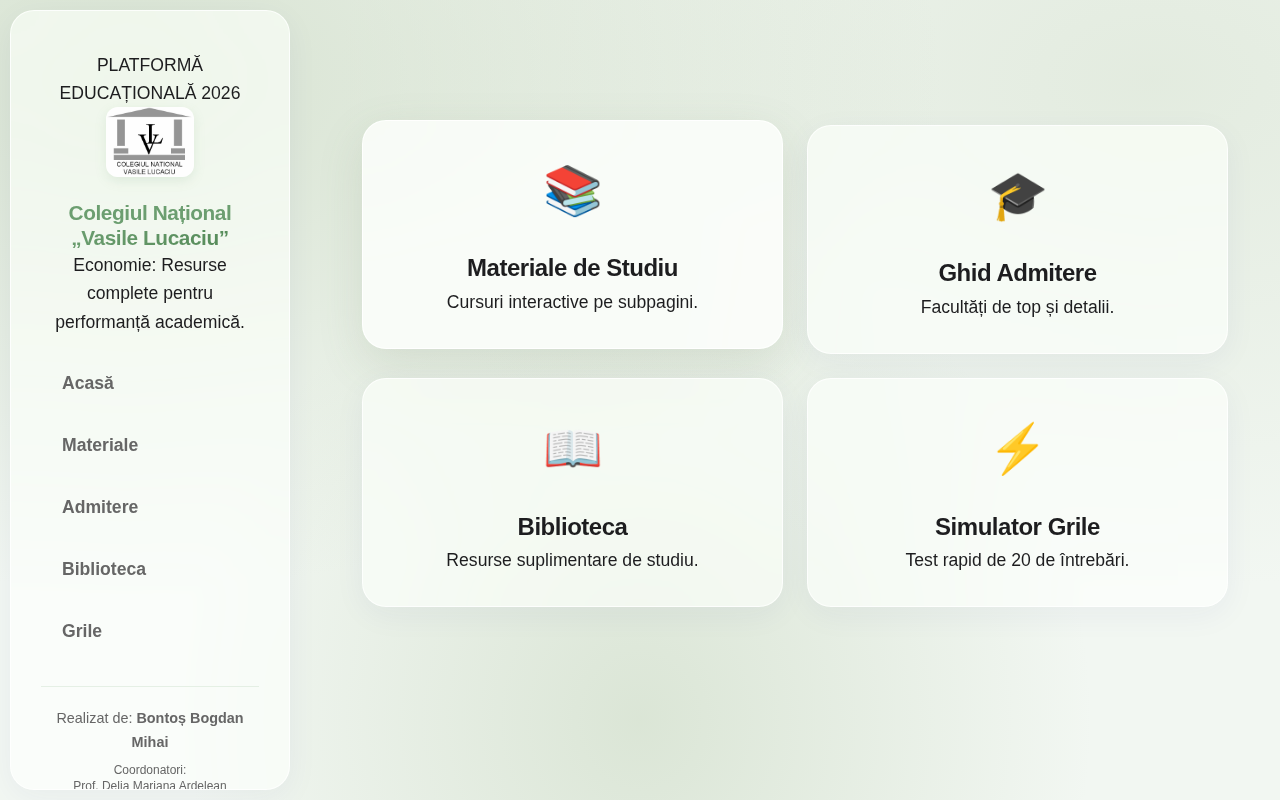
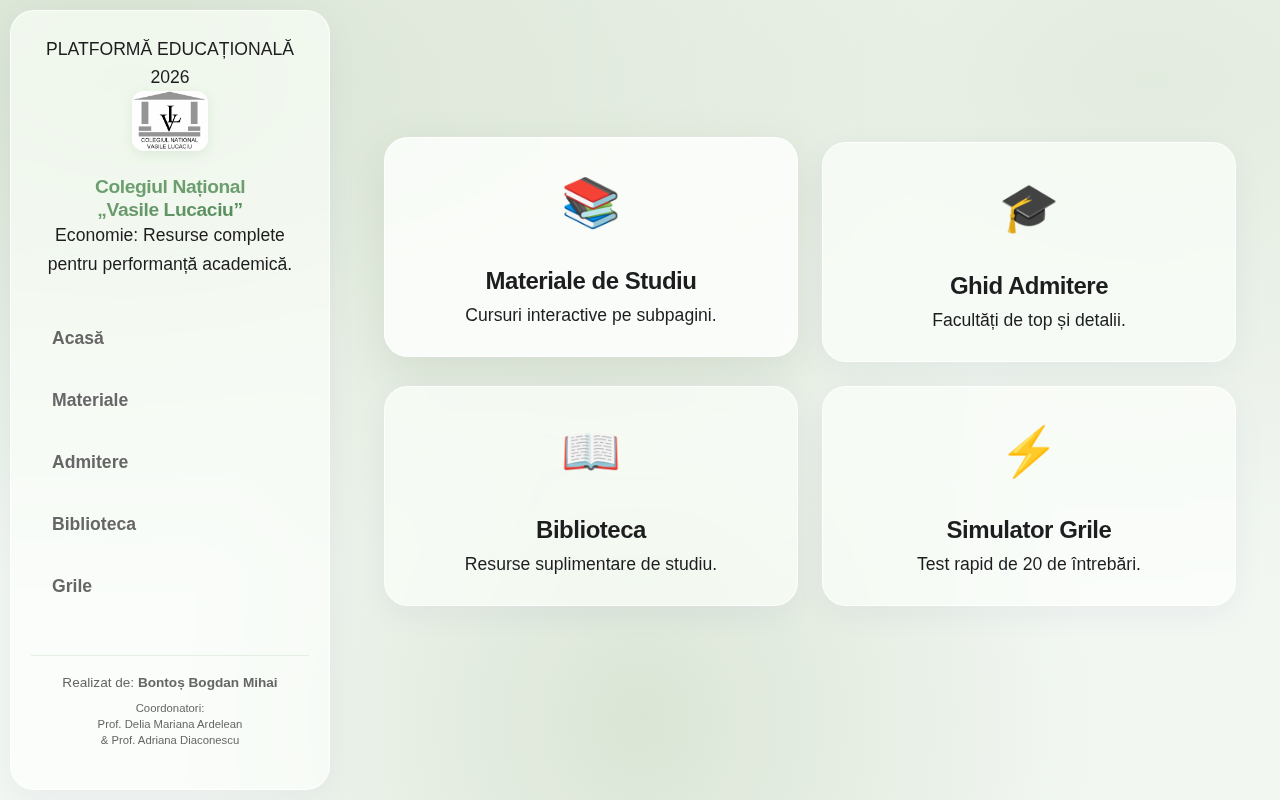
Refactor sidebar and viewer layout

diff --git a/style.css b/style.css
@@ -97,10 +97,10 @@ h3 { font-size: var(--fs-h3); }
     position: fixed;
     top: 0;
     left: 0;
-    width: 280px;
+    width: 320px;
     height: calc(100vh - 20px);
     margin: 10px;
-    padding: 2.5rem 1.875rem;
+    padding: 1.5rem 1.25rem;
     display: flex;
     flex-direction: column;
     justify-content: space-between;
@@ -110,10 +110,10 @@ h3 { font-size: var(--fs-h3); }
 }
 
 .sidebar-header { text-align: center; }
-.sidebar-header h1 { font-size: 1.3rem; line-height: 1.2; }
+.sidebar-header h1 { font-size: 1.2rem; line-height: 1.2; }
 
 .hero-logo {
-    height: 70px;
+    height: 60px;
     margin-bottom: 1rem;
     border-radius: 12px;
     box-shadow: var(--shadow-colored-sm);
@@ -153,17 +153,17 @@ h3 { font-size: var(--fs-h3); }
 
 .sidebar-footer {
     text-align: center;
-    font-size: var(--fs-small);
+    font-size: 0.85rem;
     color: var(--text-muted);
-    padding-top: 1.25rem;
+    padding-top: 1rem;
     border-top: 1px solid var(--border);
     margin-top: auto;
-    padding-bottom: 1.25rem;
+    padding-bottom: 1rem;
 }
 
 /* Main Content */
 .main-content {
-    margin-left: 310px; /* 280px width + 10px margin + 20px gap */
+    margin-left: 340px; /* 320px width + 10px margin + 10px gap */
     min-height: 100vh;
     position: relative;
     /* Reset glass style if applied via class, though .main-content usually doesn't need glass BG unless specified */
@@ -176,7 +176,7 @@ h3 { font-size: var(--fs-h3); }
 }
 
 /* Views */
-.view { display: none; padding: 1rem 2rem 3rem 2rem; min-height: 100vh; }
+.view { display: none; padding: 1.5rem; min-height: 100vh; }
 .view.active { display: block; animation: fadeIn 0.4s ease-out; }
 @keyframes fadeIn { from { opacity: 0; transform: translateY(10px); } to { opacity: 1; transform: translateY(0); } }
 
@@ -205,7 +205,7 @@ h3 { font-size: var(--fs-h3); }
 
 /* Cards - Interactive */
 .nav-card, .quiz-card, .chapter-card {
-    padding: 2rem;
+    padding: 1.5rem;
     cursor: pointer;
     margin-bottom: 0;
     position: relative;
@@ -339,7 +339,7 @@ h3 { font-size: var(--fs-h3); }
 
 /* Modals */
 .modal { position: fixed; inset: 0; background: rgba(0,0,0,0.4); backdrop-filter: blur(8px); z-index: 2000; display: flex; align-items: center; justify-content: center; padding: 1.25rem; animation: fadeIn 0.3s; }
-.modal-content { width: 100%; max-width: 800px; padding: 2.5rem; position: relative; max-height: 90vh; overflow-y: auto; }
+.modal-content { width: 100%; max-width: 800px; padding: 2rem; position: relative; max-height: 90vh; overflow-y: auto; }
 .close-btn { position: absolute; top: 1.25rem; right: 1.5rem; font-size: 1.75rem; cursor: pointer; color: var(--text-muted); transition: all 0.3s cubic-bezier(0.25, 0.8, 0.25, 1); background: transparent; border: none; }
 .close-btn:hover { color: var(--danger); transform: rotate(90deg); }
 .hidden { display: none !important; }
@@ -390,20 +390,22 @@ h3 { font-size: var(--fs-h3); }
 
 .reader-header .btn-back { position: absolute; left: 1.5rem; padding: 0.6rem 1.2rem; border-radius: 12px; font-weight: 600; }
 .reader-title { font-size: 1.2rem; font-weight: 700; margin: 0; color: var(--text); text-align: center; max-width: 60%; white-space: nowrap; overflow: hidden; text-overflow: ellipsis; }
-.reader-layout { flex: 1; display: flex; align-items: center; justify-content: center; overflow-y: auto; padding: 2rem; }
+.reader-layout { flex: 1; display: flex; flex-direction: column; align-items: stretch; justify-content: flex-start; overflow: hidden; padding: 1rem; height: calc(100vh - 70px); }
 
 .material-viewer {
-    width: 90%;
-    max-width: 1200px;
-    height: 80vh;
+    width: 100%;
+    flex: 1;
+    max-width: none;
+    height: auto;
     /* Glass styles inherited via class */
-    padding: 20px;
+    padding: 0;
     display: flex;
     flex-direction: column;
     transition: all 0.4s ease;
     overflow: hidden;
+    margin: 0;
 }
-.material-viewer iframe { flex: 1; border-radius: 16px; border: none; background: #ffffff; }
+.material-viewer iframe { flex: 1; width: 100%; height: 100%; border-radius: 16px; border: none; background: #ffffff; }
 
 /* Mobile */
 @media (max-width: 768px) {
@@ -424,7 +426,7 @@ h3 { font-size: var(--fs-h3); }
     }
     .sidebar.open { transform: translateX(0); }
     .main-content { margin-left: 0 !important; padding: 10px; }
-    .view { padding: 1.875rem 1.25rem; }
+    .view { padding: 1.5rem 1rem; }
     .home-grid-compact, .quiz-grid, .chapters-grid, .uni-cards-grid { grid-template-columns: 1fr; gap: 1.5rem; }
     .reader-layout { padding: 0; }
     .material-viewer { width: 100%; height: 100%; border-radius: 0; padding: 10px; border: none; margin: 0; }
@@ -495,7 +497,7 @@ h3 { font-size: var(--fs-h3); }
 .circular-progress { position: relative; height: 250px; width: 250px; border-radius: 50%; background: conic-gradient(var(--accent) 0deg, rgba(255,255,255,0.2) 0deg); display: flex; align-items: center; justify-content: center; transition: background 1s ease-out; box-shadow: var(--shadow-main); }
 .inner-circle { position: absolute; height: 210px; width: 210px; border-radius: 50%; background: rgba(255, 255, 255, 0.9); display: flex; flex-direction: column; align-items: center; justify-content: center; box-shadow: inset 0 5px 15px rgba(0,0,0,0.1); z-index: 2; }
 .inner-circle span { font-size: 3.5rem; font-weight: 800; color: var(--accent-color); line-height: 1; }
-.results-main-card { padding: 3rem; }
+.results-main-card { padding: 2rem; }
 
 /* Review Mode */
 .review-mode-container { max-width: 800px; margin: 0 auto; padding: 2rem; }

diff --git a/refactor_viewer.py b/refactor_viewer.py
@@ -1,0 +1,67 @@
+import re
+
+file_path = 'style.css'
+with open(file_path, 'r') as f:
+    content = f.read()
+
+# Replace .reader-layout
+# Match the single line block
+pattern_reader = r"\.reader-layout \{ flex: 1; display: flex; align-items: center; justify-content: center; overflow-y: auto; padding: 2rem; \}"
+replacement_reader = ".reader-layout { flex: 1; display: flex; flex-direction: column; align-items: stretch; justify-content: flex-start; overflow: hidden; padding: 1rem; height: calc(100vh - 70px); }"
+
+if pattern_reader in content:
+    content = content.replace(pattern_reader, replacement_reader)
+    print("Replaced .reader-layout")
+else:
+    print("WARNING: Could not find .reader-layout exact match")
+
+# Replace .material-viewer block
+pattern_viewer = r"""\.material-viewer \{
+    width: 90%;
+    max-width: 1200px;
+    height: 80vh;
+    /\* Glass styles inherited via class \*/
+    padding: 20px;
+    display: flex;
+    flex-direction: column;
+    transition: all 0.4s ease;
+    overflow: hidden;
+\}"""
+replacement_viewer = """.material-viewer {
+    width: 100%;
+    flex: 1;
+    max-width: none;
+    height: auto;
+    /* Glass styles inherited via class */
+    padding: 0;
+    display: flex;
+    flex-direction: column;
+    transition: all 0.4s ease;
+    overflow: hidden;
+    margin: 0;
+}"""
+
+# Use re.sub just in case of whitespace differences, but exact match is safer if I copied correctly.
+# Let's try direct replace first.
+if pattern_viewer in content:
+    content = content.replace(pattern_viewer, replacement_viewer)
+    print("Replaced .material-viewer")
+else:
+    print("WARNING: Could not find .material-viewer exact match")
+    # Try creating a regex for it
+    pattern_viewer_re = r"\.material-viewer\s*\{\s*width:\s*90%;\s*max-width:\s*1200px;\s*height:\s*80vh;\s*/\*.*?\*/\s*padding:\s*20px;\s*display:\s*flex;\s*flex-direction:\s*column;\s*transition:\s*all\s*0\.4s\s*ease;\s*overflow:\s*hidden;\s*\}"
+    content = re.sub(pattern_viewer_re, replacement_viewer, content, flags=re.DOTALL)
+    print("Attempted regex replacement for .material-viewer")
+
+# Update iframe
+pattern_iframe = r"\.material-viewer iframe \{ flex: 1; border-radius: 16px; border: none; background: #ffffff; \}"
+replacement_iframe = ".material-viewer iframe { flex: 1; width: 100%; height: 100%; border-radius: 16px; border: none; background: #ffffff; }"
+
+if pattern_iframe in content:
+    content = content.replace(pattern_iframe, replacement_iframe)
+    print("Replaced .material-viewer iframe")
+else:
+    print("WARNING: Could not find .material-viewer iframe match")
+
+with open(file_path, 'w') as f:
+    f.write(content)

diff --git a/verify_layout.py b/verify_layout.py
@@ -1,0 +1,49 @@
+from playwright.sync_api import sync_playwright
+import time
+import os
+
+def run():
+    os.makedirs("/home/jules/verification", exist_ok=True)
+    with sync_playwright() as p:
+        browser = p.chromium.launch(headless=True)
+        # Desktop
+        page = browser.new_page(viewport={'width': 1280, 'height': 800})
+        page.goto("http://localhost:8080")
+        time.sleep(2) # Wait for load
+
+        # Sidebar Screenshot
+        page.screenshot(path="/home/jules/verification/desktop_sidebar.png")
+
+        # Open Viewer (Lesson)
+        # We need to make sure data is loaded.
+        # Let's try to navigate to 'Materiale' first
+        page.evaluate("showPage('materiale')")
+        time.sleep(1)
+        # Now try to open first lesson
+        # We can find a chapter card and click it, or use JS
+        # Let's use JS for reliability if elements are generated
+        try:
+            page.evaluate("openLesson(0)")
+            time.sleep(2)
+            page.screenshot(path="/home/jules/verification/desktop_viewer.png")
+        except Exception as e:
+            print(f"Error opening lesson: {e}")
+
+        # Mobile
+        page_mobile = browser.new_page(viewport={'width': 375, 'height': 667})
+        page_mobile.goto("http://localhost:8080")
+        time.sleep(2)
+
+        # Open Sidebar
+        # Ensure mobile toggle is visible
+        if page_mobile.is_visible("#mobile-toggle"):
+            page_mobile.click("#mobile-toggle")
+            time.sleep(1)
+            page_mobile.screenshot(path="/home/jules/verification/mobile_sidebar.png")
+        else:
+            print("Mobile toggle not found")
+
+        browser.close()
+
+if __name__ == "__main__":
+    run()

diff --git a/refactor_sidebar.py b/refactor_sidebar.py
@@ -1,0 +1,27 @@
+import re
+
+file_path = 'style.css'
+with open(file_path, 'r') as f:
+    lines = f.readlines()
+
+# Line numbers are 0-indexed in list
+changes = {
+    99: ("width: 280px;", "width: 320px;"),
+    101: ("padding: 2.5rem 1.875rem;", "padding: 1.5rem 1.25rem;"),
+    112: ("font-size: 1.3rem;", "font-size: 1.2rem;"),
+    115: ("height: 70px;", "height: 60px;"),
+    155: ("font-size: var(--fs-small);", "font-size: 0.85rem;"),
+    157: ("padding-top: 1.25rem;", "padding-top: 1rem;"),
+    160: ("padding-bottom: 1.25rem;", "padding-bottom: 1rem;"),
+    165: ("margin-left: 310px;", "margin-left: 340px;")
+}
+
+for line_idx, (old, new) in changes.items():
+    if old in lines[line_idx]:
+        lines[line_idx] = lines[line_idx].replace(old, new)
+        print(f"Applied change at line {line_idx+1}: {old} -> {new}")
+    else:
+        print(f"WARNING: content mismatch at line {line_idx+1}. Expected '{old}', found '{lines[line_idx].strip()}'")
+
+with open(file_path, 'w') as f:
+    f.writelines(lines)
